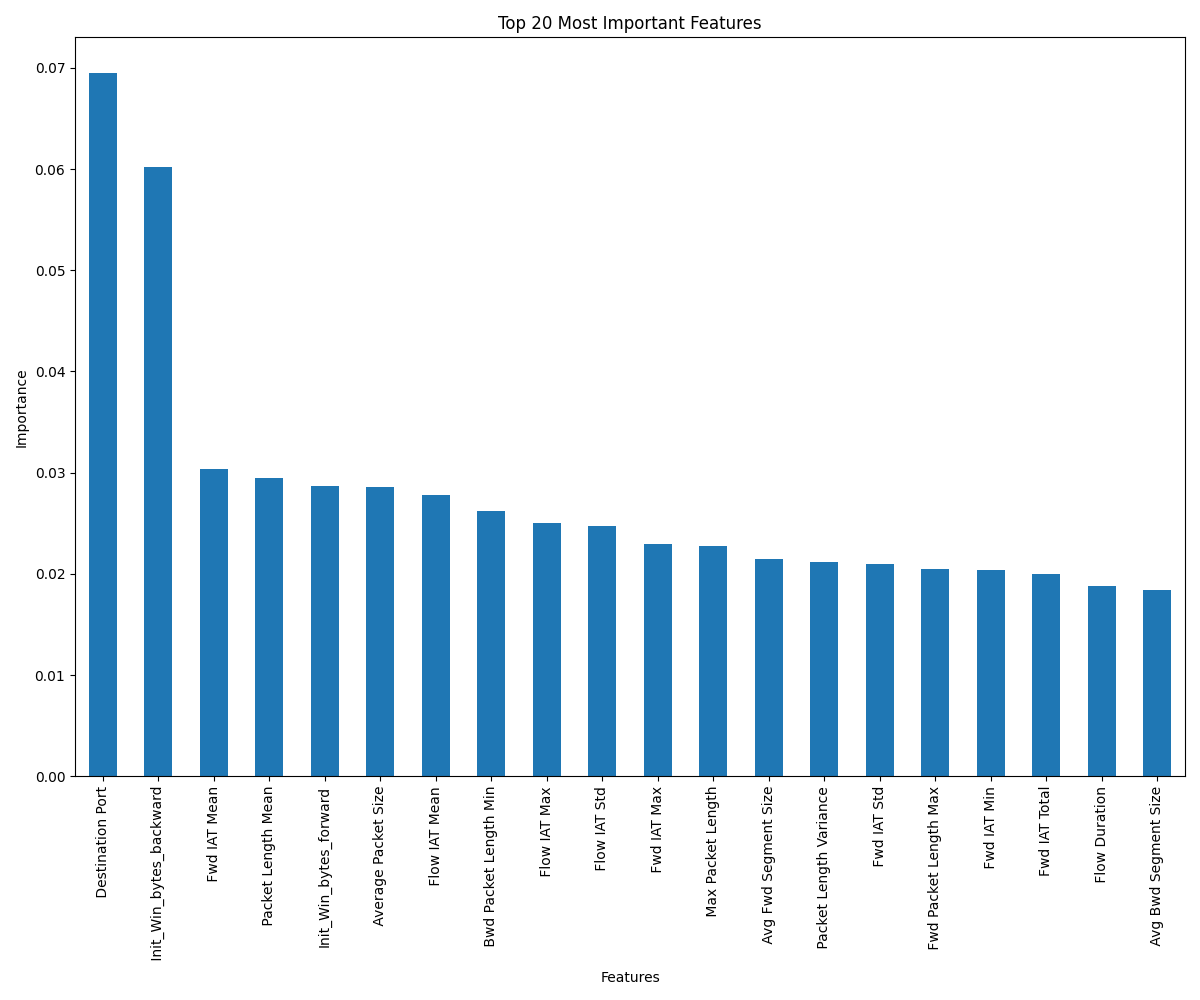
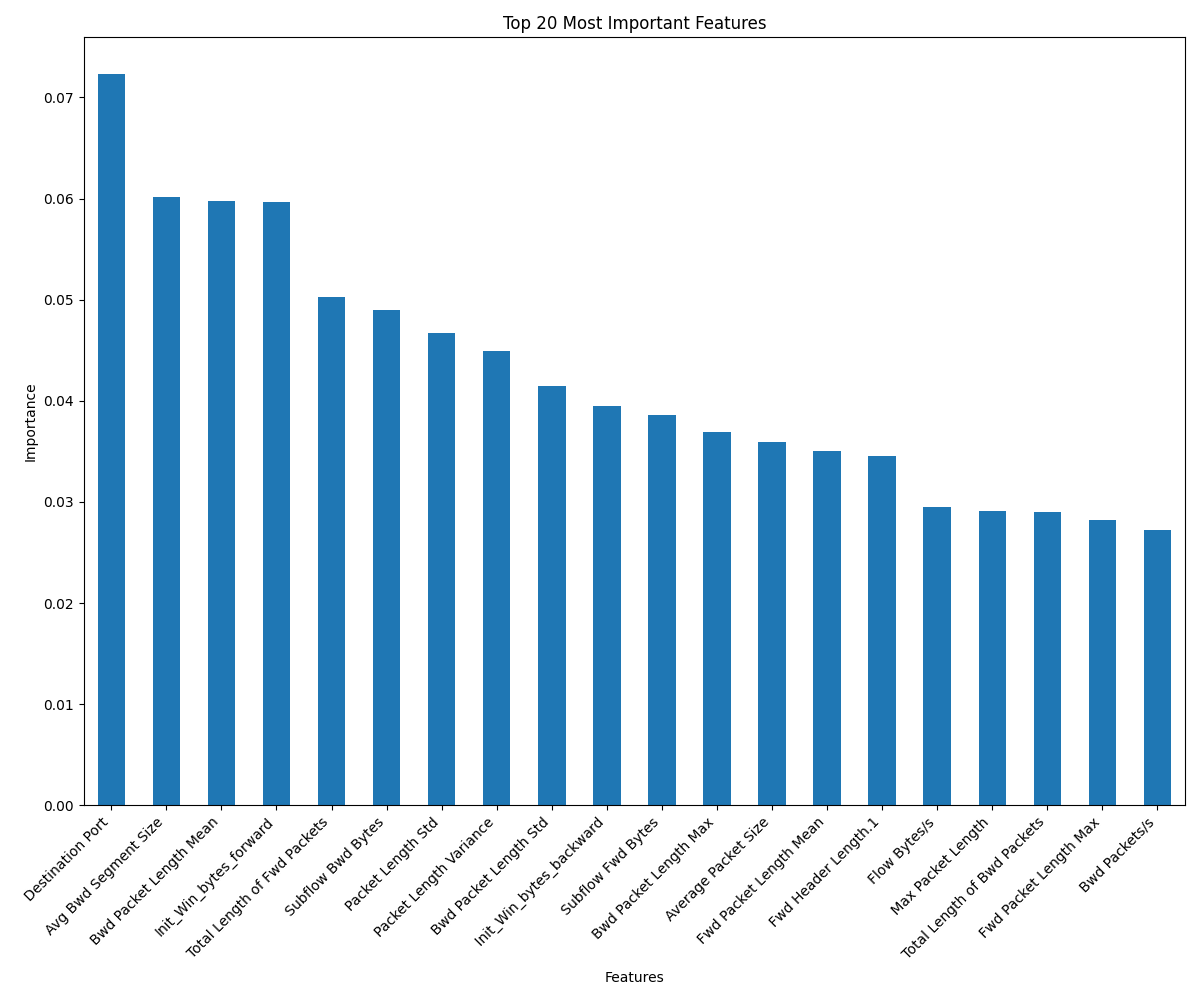
feature selection and smote

Changed region(s): [[0.0, 0.062, 0.9867, 0.961], [0.4008, 0.0, 0.6475, 0.031], [0.4933, 0.961, 0.555, 0.992]]

diff --git a/main.py b/main.py
@@ -14,6 +14,8 @@ import seaborn as sns
 from imblearn.over_sampling import SMOTE
 from imblearn.pipeline import Pipeline as ImbPipeline
 from joblib import Parallel, delayed
+from sklearn.feature_selection import SelectFromModel
+from collections import Counter
 
 # Set up logging to track the progress and any issues
 logging.basicConfig(level=logging.INFO, format='%(asctime)s - %(levelname)s - %(message)s')
@@ -108,6 +110,10 @@ def prepare_features_and_target(df, sample_size=0.1, min_samples=10):
     label_col = df_sampled.columns[df_sampled.columns.str.strip() == 'Label'][0]
     source_file_col = df_sampled.columns[df_sampled.columns.str.strip() == 'source_file'][0]
     
+    # Print unique values in the Label column
+    print("Unique attack types in the dataset:")
+    print(df[label_col].unique())
+    
     # Remove classes with too few samples to ensure reliable learning
     class_counts = df_sampled[label_col].value_counts()
     classes_to_keep = class_counts[class_counts >= min_samples].index
@@ -125,7 +131,20 @@ def prepare_features_and_target(df, sample_size=0.1, min_samples=10):
     # Ensure y matches the rows in X after dropping NaN values
     y = y[X.index]
     
-    return X, y
+    # Add feature selection step
+    selector = SelectFromModel(RandomForestClassifier(n_estimators=100, random_state=42, n_jobs=-1))
+    selector.fit(X, y)
+    
+    # Get the selected feature names
+    selected_features = X.columns[selector.get_support()]
+    
+    # Apply the transformation
+    X_selected = selector.transform(X)
+    
+    # Convert X_selected back to a DataFrame with the correct feature names
+    X_selected = pd.DataFrame(X_selected, columns=selected_features, index=X.index)
+    
+    return X_selected, y
 
 # Function to train and evaluate the machine learning model
 def train_and_evaluate_model(X, y):
@@ -135,36 +154,43 @@ def train_and_evaluate_model(X, y):
     X_train, X_test, y_train, y_test = train_test_split(X, y, test_size=0.2, random_state=42, stratify=y)
     logging.info(f"Train set size: {X_train.shape[0]}, Test set size: {X_test.shape[0]}")
     
-    # Create a pipeline that scales the data, applies SMOTE, and then uses a Random Forest classifier
+    # Calculate class distribution
+    class_counts = Counter(y_train)
+    logging.info(f"Class distribution before SMOTE: {class_counts}")
+    
+    # Define sampling strategy
+    sampling_strategy = {
+        'Web Attack Brute Force': int(class_counts['BENIGN'] * 0.1),  # 10% of majority class
+        'Web Attack XSS': int(class_counts['BENIGN'] * 0.1),  # 10% of majority class
+        'Bot': int(class_counts['BENIGN'] * 0.05),  # 5% of majority class
+    }
+    
+    # For other minority classes, oversample to 1% of majority class
+    for class_name, count in class_counts.items():
+        if count < class_counts['BENIGN'] and class_name not in sampling_strategy:
+            sampling_strategy[class_name] = max(count, int(class_counts['BENIGN'] * 0.01))
+    
+    # Remove any classes from sampling_strategy that are not in the dataset
+    sampling_strategy = {k: v for k, v in sampling_strategy.items() if k in class_counts}
+    
+    # Create a pipeline that scales the data, applies aggressive SMOTE, and then uses a Random Forest classifier
     pipeline = ImbPipeline([
-        ('scaler', StandardScaler()),  # Normalize the feature scales
-        ('smote', SMOTE(random_state=42)),  # Oversample minority classes
-        ('classifier', RandomForestClassifier(n_estimators=100, random_state=42, n_jobs=-1))  # Random Forest classifier
+        ('scaler', StandardScaler()),
+        ('smote', SMOTE(sampling_strategy=sampling_strategy, random_state=42)),
+        ('classifier', RandomForestClassifier(n_estimators=50, random_state=42, n_jobs=-1))
     ])
     
-    # Perform cross-validation to estimate model performance
-    logging.info("Performing stratified cross-validation...")
-    skf = StratifiedKFold(n_splits=5, shuffle=True, random_state=42)
-    
-    # Function to compute the score for a single fold
-    def cv_score(train_index, test_index):
-        X_train_cv, X_test_cv = X.iloc[train_index], X.iloc[test_index]
-        y_train_cv, y_test_cv = y.iloc[train_index], y.iloc[test_index]
-        pipeline.fit(X_train_cv, y_train_cv)
-        return pipeline.score(X_test_cv, y_test_cv)
-
-    # Parallel computation of cross-validation scores
-    cv_scores = Parallel(n_jobs=-1)(delayed(cv_score)(train, test) for train, test in skf.split(X, y))
-    
-    logging.info(f"Cross-validation scores: {cv_scores}")
-    logging.info(f"Mean CV score: {np.mean(cv_scores):.4f} (+/- {np.std(cv_scores) * 2:.4f})")
-    
-    # Train the final model on the entire training set
-    logging.info("Training final model...")
+    # Train the model
+    logging.info("Training model...")
     start_time = time.time()
     pipeline.fit(X_train, y_train)
     end_time = time.time()
     logging.info(f"Training completed in {end_time - start_time:.2f} seconds")
+    
+    # Calculate class distribution after SMOTE
+    y_resampled = pipeline.named_steps['smote'].fit_resample(X_train, y_train)[1]
+    class_counts_after = Counter(y_resampled)
+    logging.info(f"Class distribution after SMOTE: {class_counts_after}")
     
     # Make predictions on the test set
     logging.info("Making predictions on test set...")
@@ -205,6 +231,11 @@ def plot_confusion_matrix(y_test, y_pred, top_n=10):
 # Function to plot feature importance from the Random Forest model
 def plot_feature_importance(pipeline, X):
     importances = pipeline.named_steps['classifier'].feature_importances_
+    
+    # Ensure X is a DataFrame
+    if not isinstance(X, pd.DataFrame):
+        raise ValueError("X must be a pandas DataFrame with named columns")
+    
     feature_importances = pd.Series(importances, index=X.columns).sort_values(ascending=False)
     
     plt.figure(figsize=(12, 10))
@@ -212,9 +243,12 @@ def plot_feature_importance(pipeline, X):
     plt.title('Top 20 Most Important Features')
     plt.xlabel('Features')
     plt.ylabel('Importance')
+    plt.xticks(rotation=45, ha='right')
     plt.tight_layout()
     plt.savefig('feature_importance.png')
     plt.close()
+    
+    logging.info("Feature importance plot saved as 'feature_importance.png'")
 
 # Main function to orchestrate the entire process
 def main():
